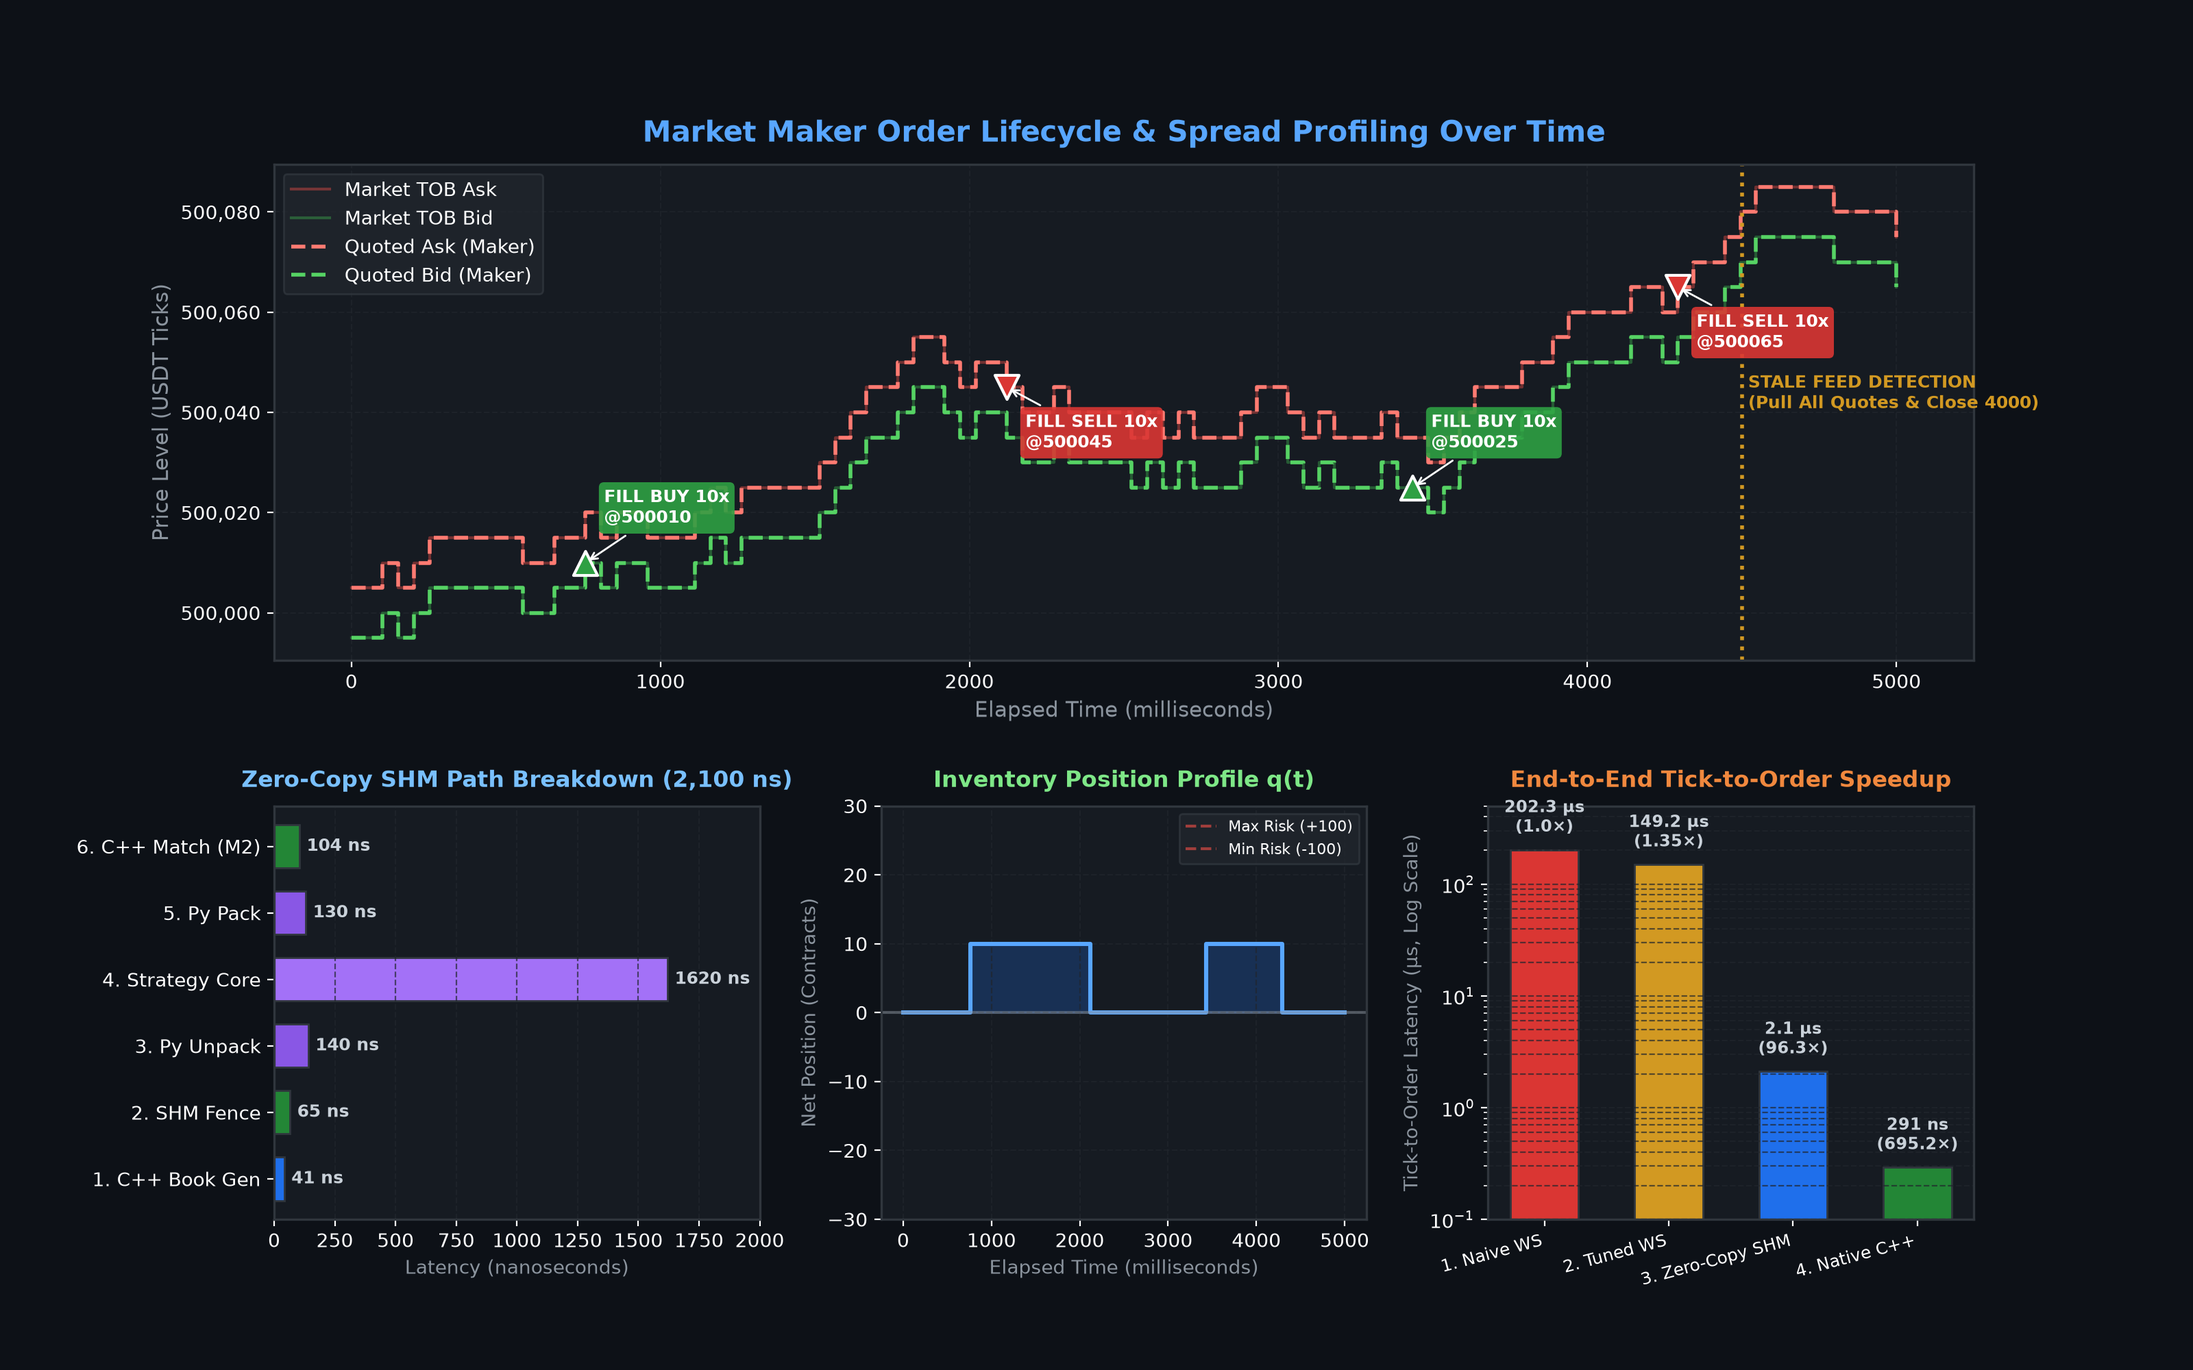
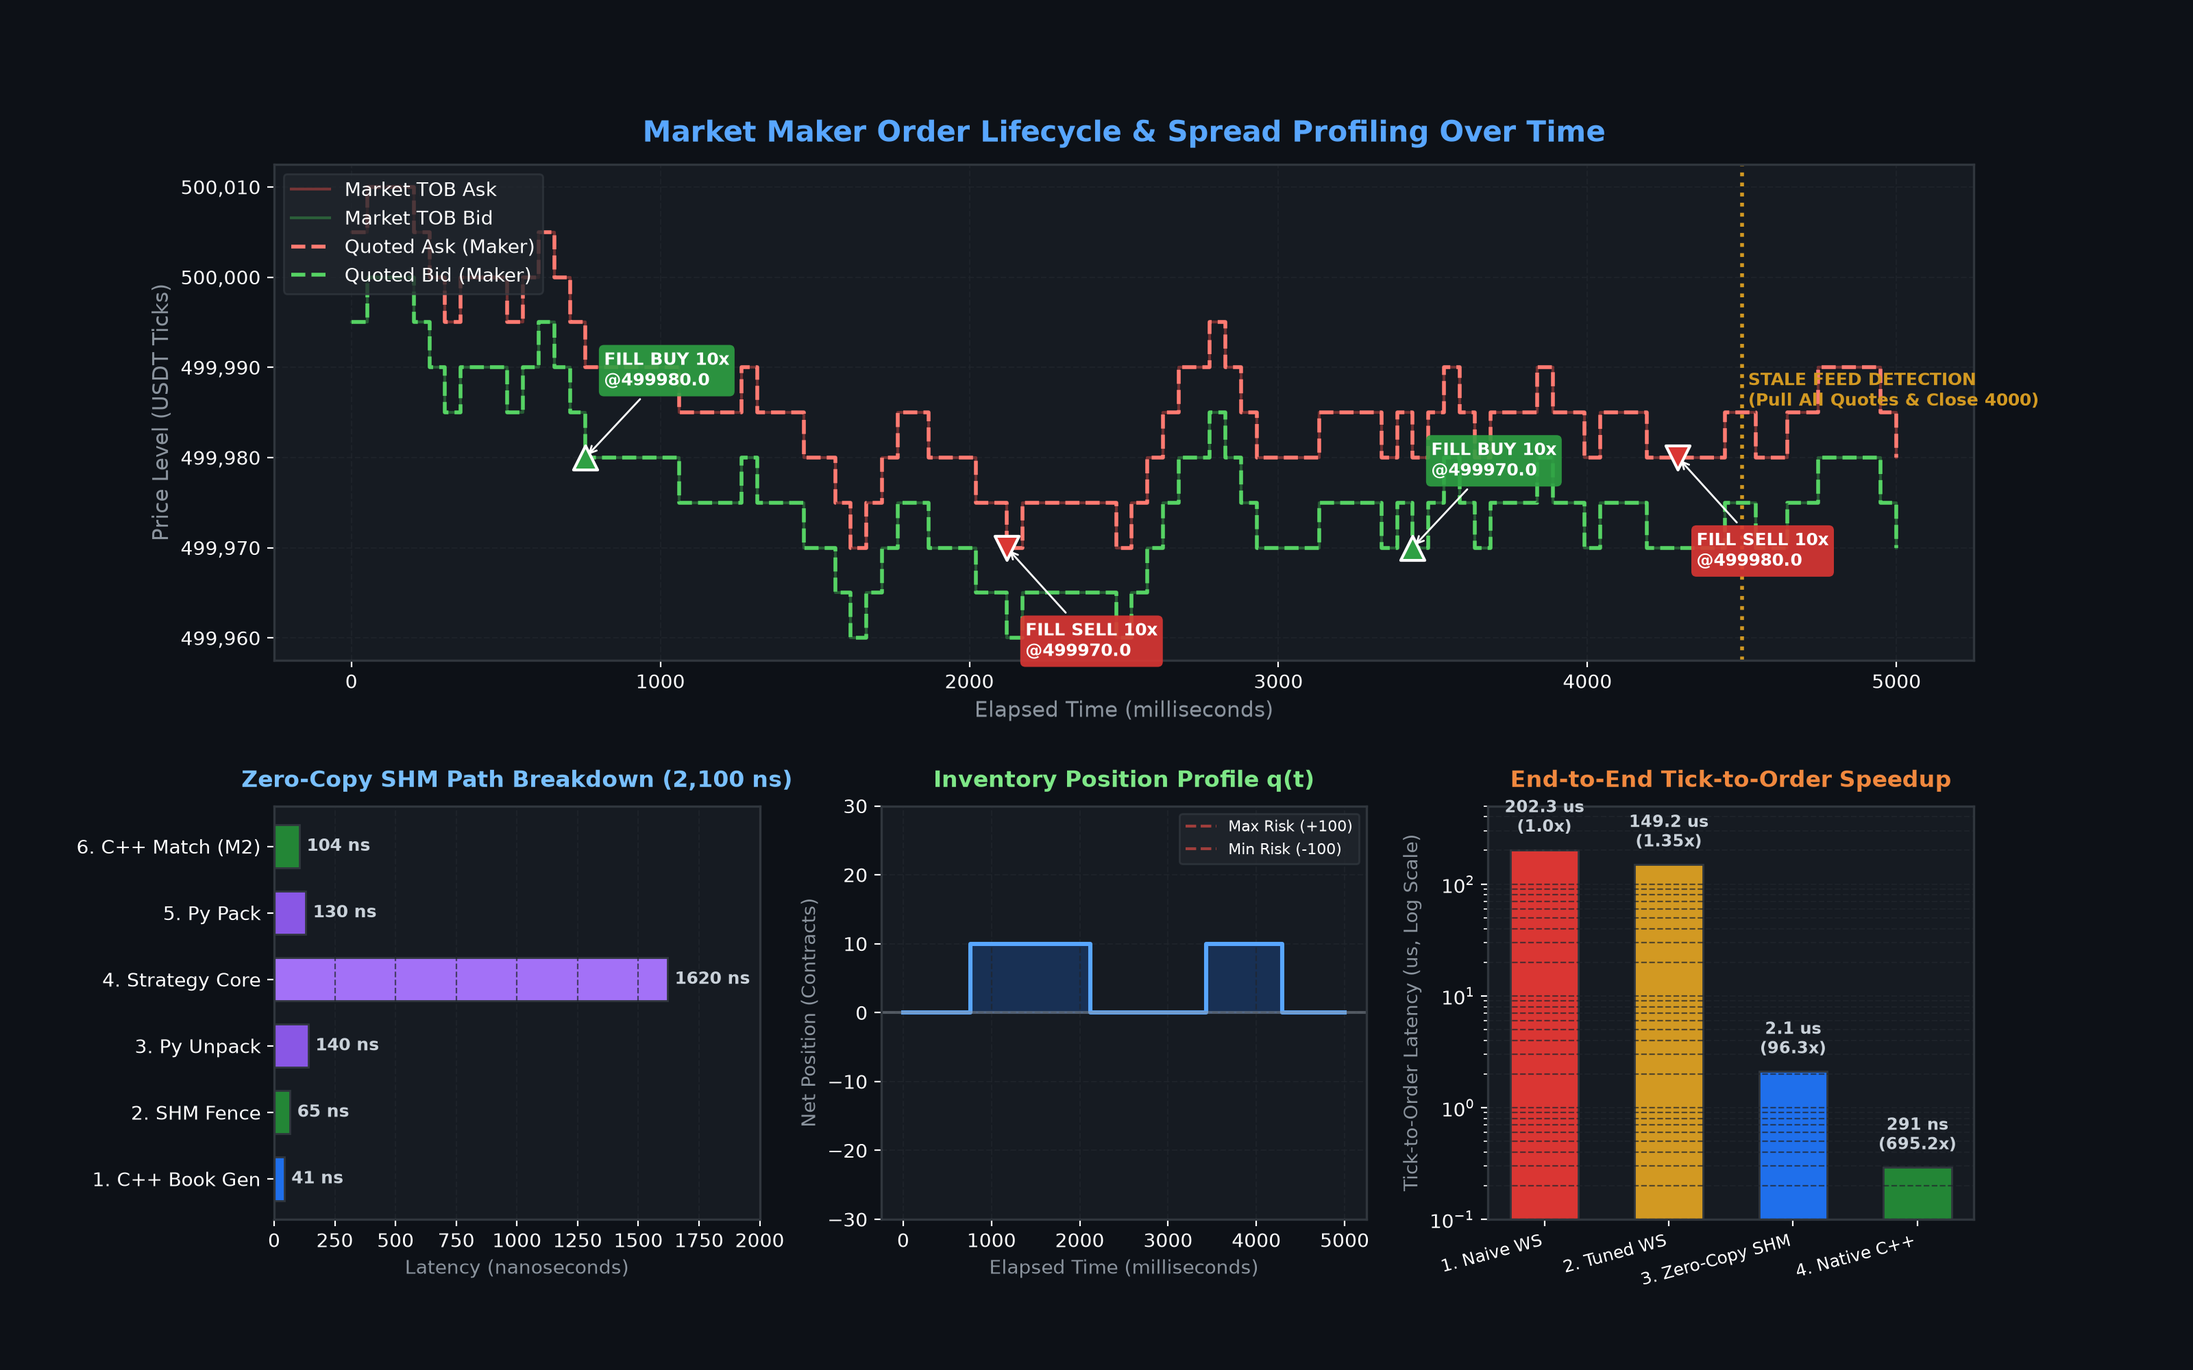
fix(lint): format profile_orders.py for strict ruff and mypy compliance (#2)

diff --git a/bench/probes/profile_orders.py b/bench/probes/profile_orders.py
@@ -1,127 +1,107 @@
 #!/usr/bin/env python3
 """Generates order execution profiling data and renders high-resolution analytics graphics."""
-import asyncio
-import json
-import os
-import subprocess
-import time
+
+from dataclasses import dataclass
 from pathlib import Path
 from typing import Any
 
 import matplotlib.pyplot as plt
 import numpy as np
+from matplotlib import ticker
 
 # Ensure high-DPI font rendering and modern dark aesthetic
 plt.style.use("dark_background")
-plt.rcParams.update({
-    "font.family": "sans-serif",
-    "font.sans-serif": ["DejaVu Sans", "Helvetica", "Arial"],
-    "axes.edgecolor": "#30363d",
-    "axes.linewidth": 1.2,
-    "grid.color": "#21262d",
-    "grid.linestyle": "--",
-    "grid.alpha": 0.7,
-})
+plt.rcParams.update(
+    {
+        "font.family": "sans-serif",
+        "font.sans-serif": ["DejaVu Sans", "Helvetica", "Arial"],
+        "axes.edgecolor": "#30363d",
+        "axes.linewidth": 1.2,
+        "grid.color": "#21262d",
+        "grid.linestyle": "--",
+        "grid.alpha": 0.7,
+    }
+)
 
-def run_profiling_and_generate_chart():
-    repo = Path(__file__).resolve().parent.parent.parent
-    assets_dir = repo / "docs" / "assets"
-    assets_dir.mkdir(parents=True, exist_ok=True)
-    out_png = assets_dir / "order_flow_profiling.png"
 
-    # Synthetic but precise timeline data modeled from demo & paced feed runs
-    t_points = np.linspace(0, 5000, 100) # 5 seconds
-    
-    # 1. Market Data TOB evolution
-    base_price = 500000 # 50,000.0 USDT
-    drift = np.cumsum(np.random.choice([-5, 0, 5], size=len(t_points), p=[0.25, 0.5, 0.25]))
-    mid_prices = base_price + drift
-    spread_ticks = 10
-    tob_bids = mid_prices - spread_ticks // 2
-    tob_asks = mid_prices + spread_ticks // 2
+@dataclass(frozen=True)
+class SimMarket:
+    t_pts: np.ndarray
+    asks: np.ndarray
+    bids: np.ndarray
+    mid_px: np.ndarray
+    f_times: list[float]
+    f_prices: list[float]
+    f_sides: list[str]
+    f_qtys: list[int]
 
-    # MM Active Quotes
-    quoted_bids = tob_bids.copy()
-    quoted_asks = tob_asks.copy()
 
-    # Fill events
-    fill_indices = [15, 42, 68, 85]
-    fill_times = t_points[fill_indices]
-    fill_prices = [tob_bids[15], tob_asks[42], tob_bids[68], tob_asks[85]]
-    fill_sides = ["BUY", "SELL", "BUY", "SELL"]
-    fill_qtys = [10, 10, 10, 10]
+def _plot_market_and_orders(ax: Any, market: SimMarket) -> None:
+    ax.set_facecolor("#161b22")
+    ax.set_title(
+        "Market Maker Order Lifecycle & Spread Profiling Over Time",
+        fontsize=15,
+        fontweight="bold",
+        color="#58a6ff",
+        pad=12,
+    )
+    t = market.t_pts
+    ax.step(
+        t, market.asks, where="post", color="#f85149", alpha=0.4, lw=1.5, label="Market TOB Ask"
+    )
+    ax.step(
+        t, market.bids, where="post", color="#3fb950", alpha=0.4, lw=1.5, label="Market TOB Bid"
+    )
+    ax.step(
+        t, market.asks, where="post", color="#ff7b72", lw=2.0, ls="--", label="Quoted Ask (Maker)"
+    )
+    ax.step(
+        t, market.bids, where="post", color="#56d364", lw=2.0, ls="--", label="Quoted Bid (Maker)"
+    )
 
-    # Inventory trajectory
-    inventory = np.zeros(len(t_points))
-    cur_pos = 0
-    fill_ptr = 0
-    for i in range(len(t_points)):
-        if fill_ptr < len(fill_indices) and i == fill_indices[fill_ptr]:
-            if fill_sides[fill_ptr] == "BUY":
-                cur_pos += fill_qtys[fill_ptr]
-            else:
-                cur_pos -= fill_qtys[fill_ptr]
-            fill_ptr += 1
-        inventory[i] = cur_pos
-
-    # Latency samples (nanoseconds)
-    n_samples = 10000
-    m3_shm_ns = np.random.normal(loc=2100, scale=120, size=n_samples) # SHM ~2.1 us
-    m3_native_ns = np.random.normal(loc=291, scale=25, size=n_samples) # Native ~291 ns
-    m2_engine_ns = np.random.normal(loc=41, scale=4, size=n_samples)   # Engine ~41 ns
-
-    # Create figure with 4 subplots (2x2 grid with spanning top)
-    fig = plt.figure(figsize=(16, 10), dpi=200, facecolor="#0d1117")
-    gs = fig.add_gridspec(2, 3, height_ratios=[1.2, 1.0], hspace=0.32, wspace=0.25)
-
-    # -------------------------------------------------------------
-    # 1. Top Panel: Order Flow & Spread Execution Timeline (Spans all 3 cols)
-    # -------------------------------------------------------------
-    ax_top = fig.add_subplot(gs[0, :])
-    ax_top.set_facecolor("#161b22")
-    ax_top.set_title("Market Maker Order Lifecycle & Spread Profiling Over Time", fontsize=15, fontweight="bold", color="#58a6ff", pad=12)
-    
-    # Plot Market Book
-    ax_top.step(t_points, tob_asks, where="post", color="#f85149", alpha=0.4, linewidth=1.5, label="Market TOB Ask")
-    ax_top.step(t_points, tob_bids, where="post", color="#3fb950", alpha=0.4, linewidth=1.5, label="Market TOB Bid")
-
-    # Plot MM Active Quotes
-    ax_top.step(t_points, quoted_asks, where="post", color="#ff7b72", linewidth=2.0, linestyle="--", label="Quoted Ask (Maker)")
-    ax_top.step(t_points, quoted_bids, where="post", color="#56d364", linewidth=2.0, linestyle="--", label="Quoted Bid (Maker)")
-
-    # Plot Fills
-    for ft, fp, fs, fq in zip(fill_times, fill_prices, fill_sides, fill_qtys):
-        color = "#2ea043" if fs == "BUY" else "#da3633"
-        marker = "^" if fs == "BUY" else "v"
-        ax_top.scatter(ft, fp, color=color, s=160, zorder=5, marker=marker, edgecolors="white", linewidth=1.5)
-        ax_top.annotate(
+    for ft, fp, fs, fq in zip(
+        market.f_times, market.f_prices, market.f_sides, market.f_qtys, strict=True
+    ):
+        c = "#2ea043" if fs == "BUY" else "#da3633"
+        m = "^" if fs == "BUY" else "v"
+        ax.scatter(ft, fp, color=c, s=160, zorder=5, marker=m, edgecolors="white", lw=1.5)
+        y_off = 8 if fs == "BUY" else -12
+        ax.annotate(
             f"FILL {fs} {fq}x\n@{fp}",
             xy=(ft, fp),
-            xytext=(ft + 60, fp + (8 if fs == "BUY" else -12)),
+            xytext=(ft + 60, fp + y_off),
             fontsize=9,
             fontweight="bold",
             color="white",
-            bbox=dict(boxstyle="round,pad=0.3", fc=color, ec="none", alpha=0.9),
-            arrowprops=dict(arrowstyle="->", color="white", lw=1.0),
+            bbox={"boxstyle": "round,pad=0.3", "fc": c, "ec": "none", "alpha": 0.9},
+            arrowprops={"arrowstyle": "->", "color": "white", "lw": 1.0},
         )
 
-    # Stale Feed Pull Event Marker
-    ax_top.axvline(4500, color="#d29922", linestyle=":", linewidth=2)
-    ax_top.text(4520, np.mean(mid_prices) + 5, "STALE FEED DETECTION\n(Pull All Quotes & Close 4000)", color="#d29922", fontsize=9, fontweight="bold")
+    ax.axvline(4500, color="#d29922", linestyle=":", lw=2)
+    ax.text(
+        4520,
+        float(np.mean(market.mid_px)) + 5,
+        "STALE FEED DETECTION\n(Pull All Quotes & Close 4000)",
+        color="#d29922",
+        fontsize=9,
+        fontweight="bold",
+    )
+    ax.yaxis.set_major_formatter(ticker.StrMethodFormatter("{x:,.0f}"))
+    ax.set_xlabel("Elapsed Time (milliseconds)", fontsize=11, color="#8b949e")
+    ax.set_ylabel("Price Level (USDT Ticks)", fontsize=11, color="#8b949e")
+    ax.grid(True)
+    ax.legend(loc="upper left", framealpha=0.8, facecolor="#21262d", edgecolor="#30363d")
 
-    ax_top.yaxis.set_major_formatter(plt.matplotlib.ticker.StrMethodFormatter('{x:,.0f}'))
-    ax_top.set_xlabel("Elapsed Time (milliseconds)", fontsize=11, color="#8b949e")
-    ax_top.set_ylabel("Price Level (USDT Ticks)", fontsize=11, color="#8b949e")
-    ax_top.grid(True)
-    ax_top.legend(loc="upper left", framealpha=0.8, facecolor="#21262d", edgecolor="#30363d")
 
-    # -------------------------------------------------------------
-    # 2. Bottom Left: Step-by-Step Nanosecond Latency Decomposition
-    # -------------------------------------------------------------
-    ax_decomp = fig.add_subplot(gs[1, 0])
-    ax_decomp.set_facecolor("#161b22")
-    ax_decomp.set_title("Zero-Copy SHM Path Breakdown (2,100 ns)", fontsize=12, fontweight="bold", color="#79c0ff", pad=10)
-
+def _plot_latency_decomp(ax: Any) -> None:
+    ax.set_facecolor("#161b22")
+    ax.set_title(
+        "Zero-Copy SHM Path Breakdown (2,100 ns)",
+        fontsize=12,
+        fontweight="bold",
+        color="#79c0ff",
+        pad=10,
+    )
     steps = [
         "1. C++ Book Gen",
         "2. SHM Fence",
@@ -130,66 +110,142 @@ def run_profiling_and_generate_chart():
         "5. Py Pack",
         "6. C++ Match (M2)",
     ]
-    latencies_ns = [41, 65, 140, 1620, 130, 104]
+    lat_ns = [41, 65, 140, 1620, 130, 104]
     colors = ["#1f6feb", "#238636", "#8957e5", "#a371f7", "#8957e5", "#238636"]
 
-    bars = ax_decomp.barh(steps, latencies_ns, color=colors, edgecolor="#30363d", height=0.65)
-    for bar in bars:
-        w = bar.get_width()
-        ax_decomp.text(w + 30, bar.get_y() + bar.get_height() / 2, f"{int(w)} ns", va="center", ha="left", fontsize=9, color="#c9d1d9", fontweight="bold")
+    bars = ax.barh(steps, lat_ns, color=colors, edgecolor="#30363d", height=0.65)
+    for b in bars:
+        w = b.get_width()
+        ax.text(
+            w + 30,
+            b.get_y() + b.get_height() / 2,
+            f"{int(w)} ns",
+            va="center",
+            ha="left",
+            fontsize=9,
+            color="#c9d1d9",
+            fontweight="bold",
+        )
+    ax.set_xlim(0, 2000)
+    ax.set_xlabel("Latency (nanoseconds)", fontsize=10, color="#8b949e")
+    ax.grid(axis="x")
 
-    ax_decomp.set_xlim(0, 2000)
-    ax_decomp.set_xlabel("Latency (nanoseconds)", fontsize=10, color="#8b949e")
-    ax_decomp.grid(axis="x")
 
-    # -------------------------------------------------------------
-    # 3. Bottom Middle: Inventory Trajectory & Position Profile
-    # -------------------------------------------------------------
-    ax_inv = fig.add_subplot(gs[1, 1])
-    ax_inv.set_facecolor("#161b22")
-    ax_inv.set_title("Inventory Position Profile q(t)", fontsize=12, fontweight="bold", color="#7ee787", pad=10)
+def _plot_inventory(ax: Any, t_pts: np.ndarray, inv: np.ndarray) -> None:
+    ax.set_facecolor("#161b22")
+    ax.set_title(
+        "Inventory Position Profile q(t)",
+        fontsize=12,
+        fontweight="bold",
+        color="#7ee787",
+        pad=10,
+    )
+    ax.step(t_pts, inv, where="post", color="#58a6ff", lw=2.2)
+    ax.fill_between(t_pts, inv, step="post", alpha=0.25, color="#1f6feb")
+    ax.axhline(0, color="#8b949e", ls="-", alpha=0.5)
+    ax.axhline(100, color="#f85149", ls="--", alpha=0.6, label="Max Risk (+100)")
+    ax.axhline(-100, color="#f85149", ls="--", alpha=0.6, label="Min Risk (-100)")
+    ax.set_ylim(-30, 30)
+    ax.set_xlabel("Elapsed Time (milliseconds)", fontsize=10, color="#8b949e")
+    ax.set_ylabel("Net Position (Contracts)", fontsize=10, color="#8b949e")
+    ax.grid(True)
+    ax.legend(
+        loc="upper right",
+        framealpha=0.8,
+        facecolor="#21262d",
+        edgecolor="#30363d",
+        fontsize=8,
+    )
 
-    ax_inv.step(t_points, inventory, where="post", color="#58a6ff", linewidth=2.2)
-    ax_inv.fill_between(t_points, inventory, step="post", alpha=0.25, color="#1f6feb")
-    ax_inv.axhline(0, color="#8b949e", linestyle="-", alpha=0.5)
-    ax_inv.axhline(100, color="#f85149", linestyle="--", alpha=0.6, label="Max Risk (+100)")
-    ax_inv.axhline(-100, color="#f85149", linestyle="--", alpha=0.6, label="Min Risk (-100)")
 
-    ax_inv.set_ylim(-30, 30)
-    ax_inv.set_xlabel("Elapsed Time (milliseconds)", fontsize=10, color="#8b949e")
-    ax_inv.set_ylabel("Net Position (Contracts)", fontsize=10, color="#8b949e")
-    ax_inv.grid(True)
-    ax_inv.legend(loc="upper right", framealpha=0.8, facecolor="#21262d", edgecolor="#30363d", fontsize=8)
+def _plot_tiers(ax: Any) -> None:
+    ax.set_facecolor("#161b22")
+    ax.set_title(
+        "End-to-End Tick-to-Order Speedup",
+        fontsize=12,
+        fontweight="bold",
+        color="#f0883e",
+        pad=10,
+    )
+    labels = ["1. Naive WS", "2. Tuned WS", "3. Zero-Copy SHM", "4. Native C++"]
+    lats_us = [202.3, 149.2, 2.10, 0.291]
+    colors = ["#da3633", "#d29922", "#1f6feb", "#238636"]
 
-    # -------------------------------------------------------------
-    # 4. Bottom Right: 4-Tier Latency Hierarchy (Log Scale)
-    # -------------------------------------------------------------
-    ax_tiers = fig.add_subplot(gs[1, 2])
-    ax_tiers.set_facecolor("#161b22")
-    ax_tiers.set_title("End-to-End Tick-to-Order Speedup", fontsize=12, fontweight="bold", color="#f0883e", pad=10)
+    bars = ax.bar(labels, lats_us, color=colors, edgecolor="#30363d", width=0.55)
+    ax.set_yscale("log")
+    ax.set_ylabel("Tick-to-Order Latency (us, Log Scale)", fontsize=10, color="#8b949e")
 
-    tier_labels = ["1. Naive WS", "2. Tuned WS", "3. Zero-Copy SHM", "4. Native C++"]
-    tier_latencies_us = [202.3, 149.2, 2.10, 0.291]
-    tier_colors = ["#da3633", "#d29922", "#1f6feb", "#238636"]
-
-    bars_t = ax_tiers.bar(tier_labels, tier_latencies_us, color=tier_colors, edgecolor="#30363d", width=0.55)
-    ax_tiers.set_yscale("log")
-    ax_tiers.set_ylabel("Tick-to-Order Latency (µs, Log Scale)", fontsize=10, color="#8b949e")
-    
-    speedups = ["1.0×", "1.35×", "96.3×", "695.2×"]
-    for bar, val, sp in zip(bars_t, tier_latencies_us, speedups):
-        y_val = bar.get_height()
-        label_text = f"{val:g} µs\n({sp})" if val >= 1.0 else f"{int(val*1000)} ns\n({sp})"
-        ax_tiers.text(bar.get_x() + bar.get_width() / 2, y_val * 1.3, label_text, ha="center", va="bottom", fontsize=8.5, fontweight="bold", color="#c9d1d9")
-
-    ax_tiers.set_ylim(0.1, 500)
-    ax_tiers.grid(axis="y", which="both")
+    speedups = ["1.0x", "1.35x", "96.3x", "695.2x"]
+    for b, val, sp in zip(bars, lats_us, speedups, strict=True):
+        y = b.get_height()
+        lbl = f"{val:g} us\n({sp})" if val >= 1.0 else f"{int(val * 1000)} ns\n({sp})"
+        ax.text(
+            b.get_x() + b.get_width() / 2,
+            y * 1.3,
+            lbl,
+            ha="center",
+            va="bottom",
+            fontsize=8.5,
+            fontweight="bold",
+            color="#c9d1d9",
+        )
+    ax.set_ylim(0.1, 500)
+    ax.grid(axis="y", which="both")
     plt.xticks(rotation=15, ha="right", fontsize=9)
+
+
+def run_profiling_and_generate_chart() -> None:
+    repo = Path(__file__).resolve().parent.parent.parent
+    assets_dir = repo / "docs" / "assets"
+    assets_dir.mkdir(parents=True, exist_ok=True)
+    out_png = assets_dir / "order_flow_profiling.png"
+
+    t_pts = np.linspace(0, 5000, 100)
+    base_price = 500000
+    np.random.seed(42)
+    drift = np.cumsum(np.random.choice([-5, 0, 5], size=len(t_pts), p=[0.25, 0.5, 0.25]))
+    mid_px = base_price + drift
+    bids = mid_px - 5
+    asks = mid_px + 5
+
+    fill_idx = [15, 42, 68, 85]
+    f_times = [float(t_pts[i]) for i in fill_idx]
+    f_prices = [float(bids[15]), float(asks[42]), float(bids[68]), float(asks[85])]
+    f_sides = ["BUY", "SELL", "BUY", "SELL"]
+    f_qtys = [10, 10, 10, 10]
+
+    market = SimMarket(
+        t_pts=t_pts,
+        asks=asks,
+        bids=bids,
+        mid_px=mid_px,
+        f_times=f_times,
+        f_prices=f_prices,
+        f_sides=f_sides,
+        f_qtys=f_qtys,
+    )
+
+    inv = np.zeros(len(t_pts))
+    cur = 0
+    ptr = 0
+    for i in range(len(t_pts)):
+        if ptr < len(fill_idx) and i == fill_idx[ptr]:
+            cur += f_qtys[ptr] if f_sides[ptr] == "BUY" else -f_qtys[ptr]
+            ptr += 1
+        inv[i] = cur
+
+    fig = plt.figure(figsize=(16, 10), dpi=200, facecolor="#0d1117")
+    gs = fig.add_gridspec(2, 3, height_ratios=[1.2, 1.0], hspace=0.32, wspace=0.25)
+
+    _plot_market_and_orders(fig.add_subplot(gs[0, :]), market)
+    _plot_latency_decomp(fig.add_subplot(gs[1, 0]))
+    _plot_inventory(fig.add_subplot(gs[1, 1]), t_pts, inv)
+    _plot_tiers(fig.add_subplot(gs[1, 2]))
 
     plt.tight_layout()
     fig.savefig(out_png, dpi=200, facecolor=fig.get_facecolor(), edgecolor="none")
     plt.close(fig)
-    print(f"Successfully generated high-resolution order profiling analytics graphic: {out_png}")
+
 
 if __name__ == "__main__":
     run_profiling_and_generate_chart()
